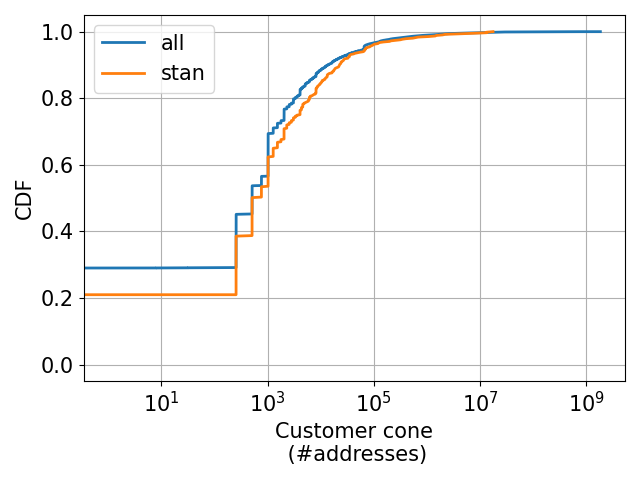
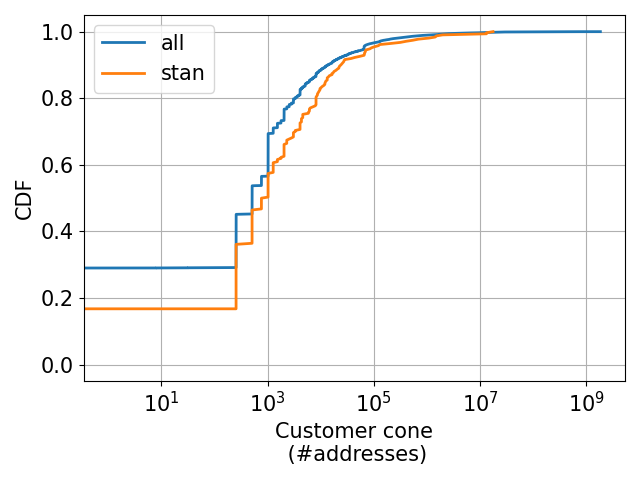
updated stan plots

diff --git a/use_cases/bias_in_monitoring_infrastructure/script_use_case_STANs.py b/use_cases/bias_in_monitoring_infrastructure/script_use_case_STANs.py
@@ -50,7 +50,8 @@ FEATURES = list(FEATURE_NAMES_DICT.keys())
 df = pd.read_csv(AGGREGATE_DATA_FNAME, header=0, index_col=0)
 df['is_personal_AS'].fillna(0, inplace=True)
 
-STAN_COUNTRIES = ['KZ', 'TJ', 'UZ', 'KG', 'TM', 'AF', 'PK']
+# STAN_COUNTRIES = ['KZ', 'TJ', 'UZ', 'KG', 'TM', 'AF', 'PK']
+STAN_COUNTRIES = ['KZ', 'TJ', 'UZ', 'KG', 'TM']
 df_stan = df[df['AS_rank_iso'].isin(STAN_COUNTRIES)]
 
 
